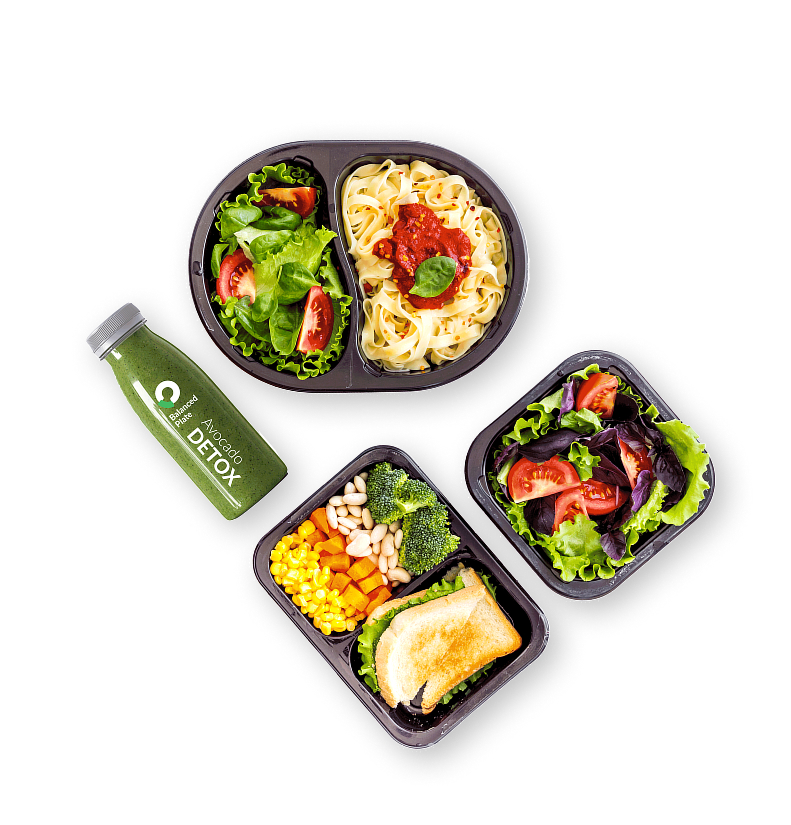
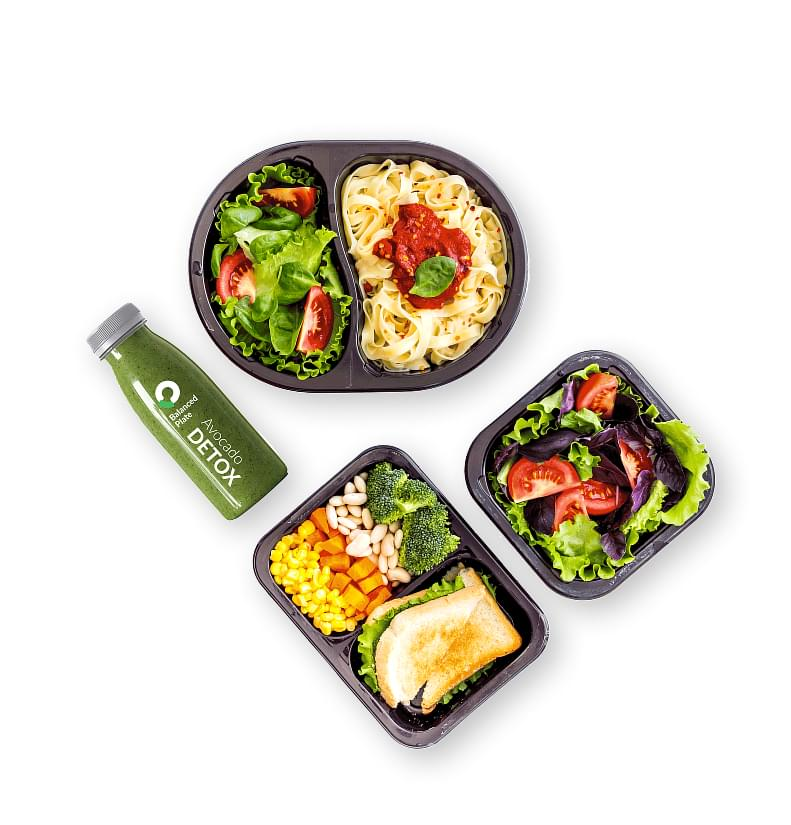
fixed errors

diff --git a/app/index.html b/app/index.html
@@ -34,7 +34,7 @@
             номер телефона
           </h5>
           <p class="modal-phone__subtitle">и наш оператор перезвонит вам</p>
-          <img class="modal-phone__img" src="images/operator.jpg" alt="Оператор">
+          <img class="modal-phone__img" src="images/operator.jpg">
         </div>
         <form class="modal-phone__form">
           <p class="modal-phone__text">Номер телефона</p>

diff --git a/app/scss/style.scss b/app/scss/style.scss
@@ -321,3 +321,4 @@ body{
   content: "4";
 }
 
+
